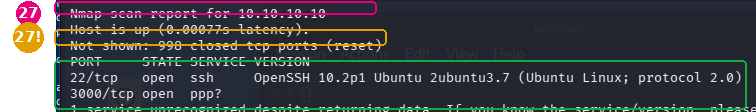
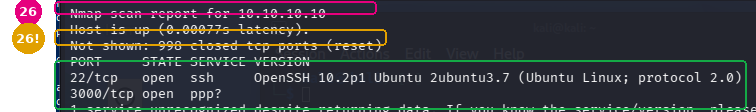
docs/04d: część 7 — baza DVWA, soft lockupy; poprawki po przeglądzie
- 04d: kroki 30–33 (Setup DVWA, logowanie, soft lockupy, snapshot), zrzuty 22–24,
  komendy w skrócie dla kroków 22–33, poprawka o wzorcu odcisku klucza z konsoli,
  nowe wpadki, zrzut 17 przenumerowany 27 → 26
- 05: prawidłowa ścieżka logu honeypota (/var/log/opencanary/)
- 04: sekcje o celach zgodne z faktyczną instalacją (compose, port 4280)
- 04c: uwaga o sumie SHA-256 i podpisie GPG, aktualna lista „Co dalej”, kotwica
- 02c: brakujący zrzut 29 opisany zamiast martwego obrazka
- ROADMAP, README zrzutów, build-log

Claude-Session: https://claude.ai/code/session_01Heyyg1yngxcYY2bPuPoRYY

diff --git a/screenshots/README.md b/screenshots/README.md
@@ -21,7 +21,7 @@ Drop build screenshots and photos here, e.g.:
   - `25`: sprawdzenie `/etc/fstab` / `/etc/fstab` check
   - `26`–`27`: przeniesienie `/var/log` na pendrive i sprawdzenie po restarcie (adres IPv6 zamazany) / moving `/var/log` to the USB stick and checking after reboot (IPv6 blurred)
   - `28`: klucz SSH z Windowsa (adres IP z sieci domowej zamazany) / SSH key from Windows (home LAN IP blurred)
-  - `29`–`31`: wyłączenie logowania hasłem i testy z kluczem i bez (adres IPv6 zamazany) / password login disabled, tests with and without the key (IPv6 blurred)
+  - `30`–`31`: testy po wyłączeniu logowania hasłem: z kluczem i bez (adres IPv6 zamazany; zrzutu `29` nie ma) / tests after disabling password login, with and without the key (IPv6 blurred; there is no `29`)
   - `32`–`35`: SSH na porcie 2222, test portów, pułapka Notatnika z `config.txt` i poprawka (adres IPv6 zamazany) / SSH on port 2222, port tests, the Notepad `config.txt` trap and the fix (IPv6 blurred)
   - `36`–`38`: firewall `ufw`: instalacja, reguły i test SSH (adres IPv6 zamazany) / `ufw` firewall: install, rules and SSH test (IPv6 blurred)
   - `39`: wyłączenie Wi-Fi i Bluetooth (adres MAC i IPv6 zamazane) / Wi-Fi and Bluetooth disabled (MAC and IPv6 blurred)
@@ -68,9 +68,11 @@ Drop build screenshots and photos here, e.g.:
   - `12`–`14`: snapshot, karta 1 w `labnet` (MAC zamazany), SSH z PC już nie działa / snapshot, adapter 1 on `labnet` (MAC blurred), SSH from the PC no longer works
   - `15`: `10.10.10.10/24` i `Network is unreachable` (IPv6 zamazane) / static address and no internet (IPv6 blurred)
   - `16`: Kali ze stałym `10.10.10.5` na `eth0` i ping do `cele` (adres domowy `eth1` i IPv6 zamazane) / Kali static on `eth0`, ping to the target (home address and IPv6 blurred)
-  - `17`–`18`: `nmap -sV` (brak DVWA w domyślnym skanie) i `nmap -p-` (wszystkie trzy usługi) / default scan misses DVWA, full scan finds all three
+  - `17`–`18`: `nmap -sV` (krok 26: brak DVWA w domyślnym skanie) i `nmap -p-` (krok 27: wszystkie trzy usługi) / default scan misses DVWA, full scan finds all three
   - `19`: SSH z Kali z odciskiem klucza zgodnym z rannym logowaniem / SSH from Kali, fingerprint matches
   - `20`–`21`: DVWA i Juice Shop otwarte w Firefoksie na Kali / DVWA and Juice Shop in Firefox on Kali
+  - `22`–`23`: DVWA: strona Setup (Create / Reset Database, brak klucza reCAPTCHA) i pierwsze logowanie z oknem zapisu hasła / DVWA setup page and first login with the save-password prompt
+  - `24`: soft lockupy na `cele` (oba procesory po 490 s) i `sudo poweroff`; wynik `ip -br a` z adresami IPv6 przycięty / soft lockups on the target VM and shutdown; the `ip -br a` output with IPv6 cropped out
 
 ## ⚠ Zanim wrzucisz / Before committing
 

diff --git a/ROADMAP.md b/ROADMAP.md
@@ -19,7 +19,7 @@ Task checklist. When a task is done, change `[ ]` to `[x]` and add an entry to t
 ## Etap 1: Fundamenty / Foundations ✅ — 📋 [podsumowanie / summary](docs/etap-1-podsumowanie.md)
 
 - [x] Aktualizacja systemu (`sudo apt update && sudo apt full-upgrade -y`) / System update
-- [x] Stały adres IP: rezerwacja DHCP w routerze (FunBox) / Static IP via DHCP reservation (FunBox) — [docs/02d, część 2](docs/02d-network-basics.md#część-2-stały-adres-ip)
+- [x] Stały adres IP: rezerwacja DHCP w routerze (FunBox) / Static IP via DHCP reservation (FunBox) — [docs/02d, część 2](docs/02d-network-basics.md#część-2-stały-adres-ip-rezerwacja-dhcp-w-funboxie)
 - [x] Logowanie kluczem SSH / SSH key login — [docs/02c](docs/02c-ssh-hardening.md)
 - [x] Wyłączone logowanie hasłem i jako root / Password and root login disabled — [docs/02c, część 2](docs/02c-ssh-hardening.md#część-2-wyłączenie-logowania-hasłem)
 - [x] Prawdziwy SSH na porcie 2222, port 22 wolny dla honeypota / Real SSH on port 2222, port 22 free for the honeypot — [docs/02c, część 3](docs/02c-ssh-hardening.md#część-3-prawdziwy-ssh-na-porcie-2222)
@@ -52,6 +52,8 @@ Task checklist. When a task is done, change `[ ]` to `[x]` and add an entry to t
 - [x] `cele` i Kali ze stałymi adresami w `labnet` (10.10.10.10 i 10.10.10.5), `cele` bez internetu / `cele` and Kali with static addresses on `labnet`, `cele` with no internet (2026-10-10) — [docs/04d, części 5–6](docs/04d-docker-dvwa-juice-shop.md#część-5-przełączenie-do-labnet)
 - [x] DVWA i Juice Shop widoczne z Kali tylko w sieci wewnętrznej (`nmap`, przeglądarka) / DVWA and Juice Shop reachable from Kali on the internal network only (2026-10-10) — [docs/04d, część 6](docs/04d-docker-dvwa-juice-shop.md#część-6-pierwszy-kontakt-z-kali)
 - [x] Test z Kali: `ssh` na `cele` z porównaniem odcisku klucza / Test from Kali: `ssh` to `cele` with a fingerprint check (2026-10-10) — [docs/04d, krok 28](docs/04d-docker-dvwa-juice-shop.md#część-6-pierwszy-kontakt-z-kali)
+- [x] Baza DVWA utworzona (*Create / Reset Database*), logowanie `admin` / `password` / DVWA database created, admin login works (2026-10-10) — [docs/04d, część 7](docs/04d-docker-dvwa-juice-shop.md#część-7-baza-dvwa-i-snapshot-cele-czyste)
+- [ ] Snapshot „cele czyste (DVWA z bazą)” / Clean snapshot of the target VM — [docs/04d, krok 33](docs/04d-docker-dvwa-juice-shop.md#33-wyłączenie-i-snapshot-cele-czyste-dvwa-z-bazą)
 - [ ] Podsumowanie etapu w `docs/etap-3-podsumowanie.md` / Stage summary
 
 ## Etap 4: Pętla atak–wykrycie / Attack–detect loop — [docs/05](docs/05-first-exercise.md)

diff --git a/docs/04c-instalacja-kali-i-celow.md b/docs/04c-instalacja-kali-i-celow.md
@@ -93,6 +93,8 @@ Na kali.org pod kafelkiem VirtualBox jest link **sum**. Wynik z PowerShella był
 ![Suma na kali.org](../screenshots/2026-10-10-kali-cele/06-suma-kali-org.png)
 ![Suma w PowerShellu](../screenshots/2026-10-10-kali-cele/07-suma-powershell.png)
 
+> ℹ **Czego suma nie załatwia (poprawka po przeglądzie).** Zgodna suma dowodzi, że plik dotarł **cały i niezmieniony w drodze**. Ale sumę wziąłem z tej samej strony co plik. Gdyby ktoś przejął samą stronę kali.org, podmieniłby i obraz, i sumę, a moje porównanie i tak by się zgodziło. Przed tym chroni dopiero **podpis GPG**: Kali podpisuje plik z sumami (`SHA256SUMS.gpg`) swoim kluczem, a podpisu nie da się podrobić bez tego klucza. Do labu w domu wystarczy suma; w pracy przy narzędziach bezpieczeństwa sprawdza się też podpis.
+
 Pierwsza próba nic nie zwróciła, opis w [❗ Wpadkach](#-wpadki).
 
 ### 4. Wersja VirtualBoxa
@@ -311,10 +313,11 @@ Machine ID, Boot ID, adres MAC i adresy IPv6 zamazane.
 
 ## Co dalej w tym etapie
 
-- [x] Na `cele`: aktualizacja, Docker z oficjalnego repozytorium, DVWA ([github.com/digininja/DVWA](https://github.com/digininja/DVWA)) i OWASP Juice Shop → [04d](04d-docker-dvwa-juice-shop.md)
-- [ ] Karta `cele` przełączona z NAT na `labnet`; stałe adresy w `labnet` dla `cele` i dla `eth0` w Kali → [04d, część 5](04d-docker-dvwa-juice-shop.md#część-5-przełączenie-do-labnet-w-toku)
-- [ ] Testy z Kali: ping, `nmap`, obie aplikacje w przeglądarce, `ssh` z porównaniem odcisku klucza; `cele` bez internetu
-- [ ] Snapshot „cele czyste”
+- [x] Na `cele`: aktualizacja, Docker z oficjalnego repozytorium, DVWA i OWASP Juice Shop → [04d, części 1–4](04d-docker-dvwa-juice-shop.md)
+- [x] Karta `cele` przełączona z NAT na `labnet`; stałe adresy w `labnet` dla `cele` i dla `eth0` w Kali → [04d, części 5–6](04d-docker-dvwa-juice-shop.md#część-5-przełączenie-do-labnet)
+- [x] Testy z Kali: ping, `nmap`, obie aplikacje w przeglądarce, `ssh` z porównaniem odcisku klucza; `cele` bez internetu → [04d, część 6](04d-docker-dvwa-juice-shop.md#część-6-pierwszy-kontakt-z-kali)
+- [x] Baza DVWA → [04d, część 7](04d-docker-dvwa-juice-shop.md#część-7-baza-dvwa-i-snapshot-cele-czyste)
+- [ ] Snapshot „cele czyste (DVWA z bazą)”
 - [ ] Zabezpieczenie Kali według [04b, obrona](04b-sieci-virtualbox.md#jak-się-bronić)
 
 ➡ Następnie: [04d — Docker, DVWA i Juice Shop na `cele`](04d-docker-dvwa-juice-shop.md)

diff --git a/build-log/build-log.md b/build-log/build-log.md
@@ -7,6 +7,17 @@ Najnowsze na górze / Newest first.
 
 ---
 
+## 2026-10-10 — Baza DVWA i soft lockupy / DVWA database and soft lockups
+
+🇵🇱 Na stronie Setup DVWA utworzyłem bazę (*Create / Reset Database*) i zalogowałem się jako `admin`. Setup Check prawie cały zielony; brakuje tylko klucza reCAPTCHA, co psuje jedno ćwiczenie (*Insecure CAPTCHA*). Firefox chciał zapamiętać hasło: odmówiłem, bo na maszynie do ataków haseł nie zapisuję. W konsoli `cele` znalazłem sześć ostrzeżeń *soft lockup*, w tym oba procesory naraz po 490 s: cała maszyna stała ponad 8 minut, najpewniej przez uśpiony PC. Do obserwacji. Przy okazji przegląd wcześniejszych rozdziałów: poprawiona ścieżka logu honeypota w 05, nieaktualne sekcje w 04, martwe kotwice, numeracja na zrzucie 17 i uwagi o sumach SHA-256 i o porównywaniu odcisku klucza z konsolą.
+
+🇬🇧 Created the DVWA database on the setup page and logged in as `admin`. Setup check almost all green; only the reCAPTCHA key is missing, which breaks one module. Declined Firefox's offer to save the password. The target VM's console showed six soft-lockup warnings, both CPUs stalled for 490 s at once, most likely a sleeping PC. Watching it. Also reviewed earlier chapters: fixed the honeypot log path in 05, stale sections in 04, dead anchors, screenshot 17 numbering, and added notes on SHA-256 vs GPG and on checking SSH fingerprints against the console.
+
+**Lekcja / Lesson:** przy ostrzeżeniu jądra patrzę, ile procesorów i kiedy: wszystkie naraz to problem komputera, nie maszyny. / With a kernel warning, check how many CPUs and when: all at once means the host, not the guest.
+Zrzuty / Screenshots: [../screenshots/2026-10-10-cele-docker/](../screenshots/2026-10-10-cele-docker/) (`22`–`24`) · Opis / Walkthrough: [docs/04d, część 7](../docs/04d-docker-dvwa-juice-shop.md#część-7-baza-dvwa-i-snapshot-cele-czyste)
+
+---
+
 ## 2026-10-10 — Pierwszy kontakt Kali → cele / First contact Kali → target VM
 
 🇵🇱 Kali ze stałym `10.10.10.5` na `eth0` (nmcli, bez bramy, internet zostaje na `eth1` mostkowanej). Ping do `cele` 3/3. `nmap -sV` pokazał tylko 22 i 3000 — DVWA na 4280 zniknęło, bo domyślnie skanuje 1000 portów; dopiero `nmap -p-` pokazał wszystkie trzy usługi, baza 3306 dalej niewidoczna. SSH na `cele` z porównaniem odcisku klucza (zgodny z rannym z PowerShella). DVWA i Juice Shop otwarte w Firefoksie na Kali. To domyka testy z Etapu 3.

diff --git a/docs/04-attacker-kali.md b/docs/04-attacker-kali.md
@@ -28,23 +28,17 @@ sudo apt update && sudo apt full-upgrade -y
 
 Narzędzia na start: **nmap** (co jest w sieci), **Wireshark** (podgląd ruchu), **Burp Suite** (analiza aplikacji WWW).
 
-## 4c. Cel — DVWA
+## 4c. Cele — DVWA i OWASP Juice Shop
 
-```bash
-sudo apt install -y docker.io
-sudo docker run -d -p 80:80 vulnerables/web-dvwa
-```
+Cele stoją na **osobnej maszynie** `cele` (Ubuntu Server), która ma tylko kartę w sieci wewnętrznej `labnet`. Docker jest z oficjalnego repozytorium, DVWA z pliku `compose.yml` autora ([github.com/digininja/DVWA](https://github.com/digininja/DVWA)), Juice Shop z obrazu `bkimminich/juice-shop`.
 
-Otwórz `http://ADRES_CELU`, zaloguj (`admin`/`password`), w zakładce *DVWA Security* ustaw poziom trudności.
+| Aplikacja | Adres z Kali | Logowanie |
+|---|---|---|
+| DVWA | `http://10.10.10.10:4280` | najpierw `setup.php` → *Create / Reset Database*, potem `admin` / `password` |
+| OWASP Juice Shop | `http://10.10.10.10:3000` | bez logowania; panel wyzwań w menu |
 
-> ℹ Obraz `vulnerables/web-dvwa` jest stary (działa do nauki). Najnowszą wersję znajdziesz na <https://github.com/digininja/DVWA>.
+Instalacja krok po kroku, ze zrzutami i wpadkami: [04d](04d-docker-dvwa-juice-shop.md).
 
-## 4d. Cel — OWASP Juice Shop
-
-```bash
-sudo docker run -d -p 3000:3000 bkimminich/juice-shop
-```
-
-Otwórz `http://ADRES_CELU:3000`. Ma wbudowany panel wyzwań — od razu widać postępy.
+> ℹ Wcześniejsza wersja tego rozdziału proponowała `apt install docker.io` i stary obraz `vulnerables/web-dvwa` na porcie 80. Nie używam ich: obraz od lat nie jest aktualizowany, a autor DVWA wspiera Dockera z oficjalnego repozytorium i własny `compose.yml`.
 
 ➡ Następnie: [05 — Pierwsze ćwiczenie](05-first-exercise.md)

diff --git a/docs/05-first-exercise.md b/docs/05-first-exercise.md
@@ -12,9 +12,10 @@ Sedno labu: robisz coś jako atakujący, potem sprawdzasz, co zobaczył obrońca
 
 2. **Obrona (Raspberry):** zajrzyj w logi honeypota i Suricaty:
    ```bash
-   tail -f /var/tmp/opencanary.log
+   sudo tail -f /var/log/opencanary/opencanary.log
    sudo tail -f /var/log/suricata/fast.log
    ```
+   Albo oba naraz skryptem `check-logs.sh` z [03, część 3](03-defender-raspberry.md#część-3-podgląd-alertów--check-logssh). Log honeypota leży w `/var/log/opencanary/`, czyli na pendrivie ([03, krok 2](03-defender-raspberry.md#krok-2-konfiguracja-pułapek-i-firewall)), a nie w domyślnym `/var/tmp/`.
    Powinieneś zobaczyć zapis swojego skanu.
 
 3. **Wniosek:** porównaj, co zrobiłeś, z tym, co urządzenie wykryło. Sedno nauki to nie „czy się udało", tylko „czy zostawiłem ślad i czy obrona go złapała".

diff --git a/docs/02c-ssh-hardening.md b/docs/02c-ssh-hardening.md
@@ -104,7 +104,7 @@ ssh grzesiek@honeypi.local
 ssh -o PubkeyAuthentication=no grzesiek@honeypi.local
 ```
 
-![Wyłączenie hasła](../screenshots/2026-10-09-assembly/29-ssh-no-password.png)
+> ℹ Zrzut z samego wyłączenia hasła (miał być nr 29) nie trafił do repo. Wynik widać na zrzutach 30 i 31 poniżej.
 
 ![Test z kluczem](../screenshots/2026-10-09-assembly/30-ssh-key-test.png)
 
